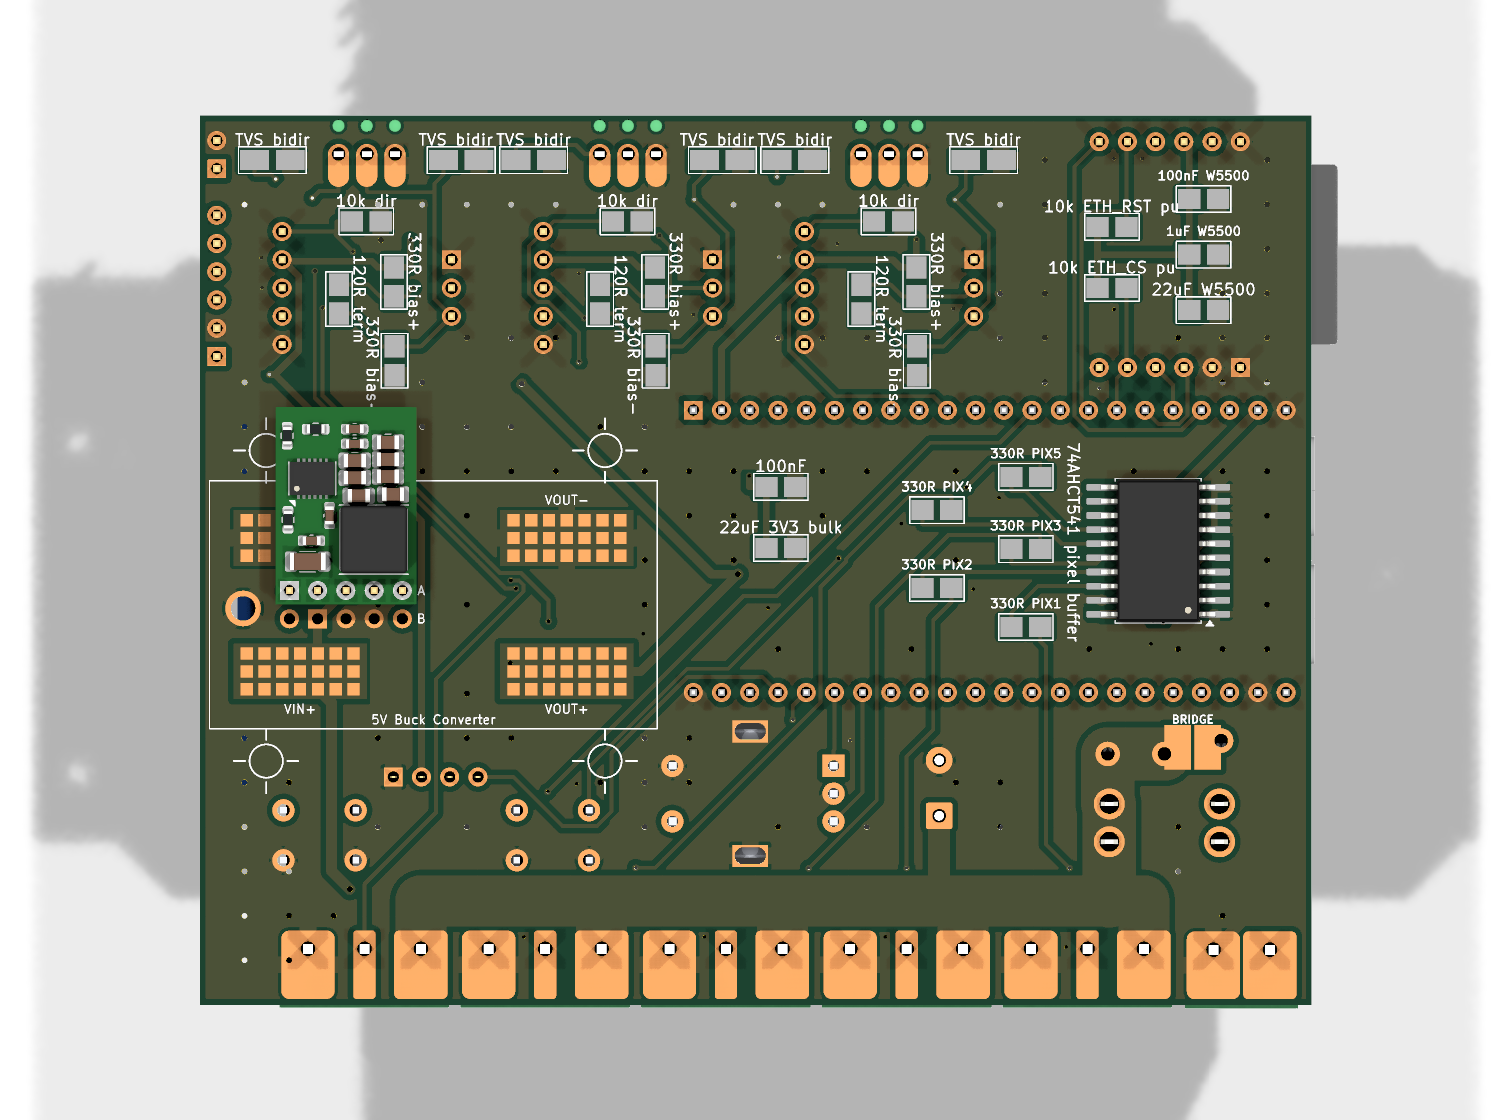
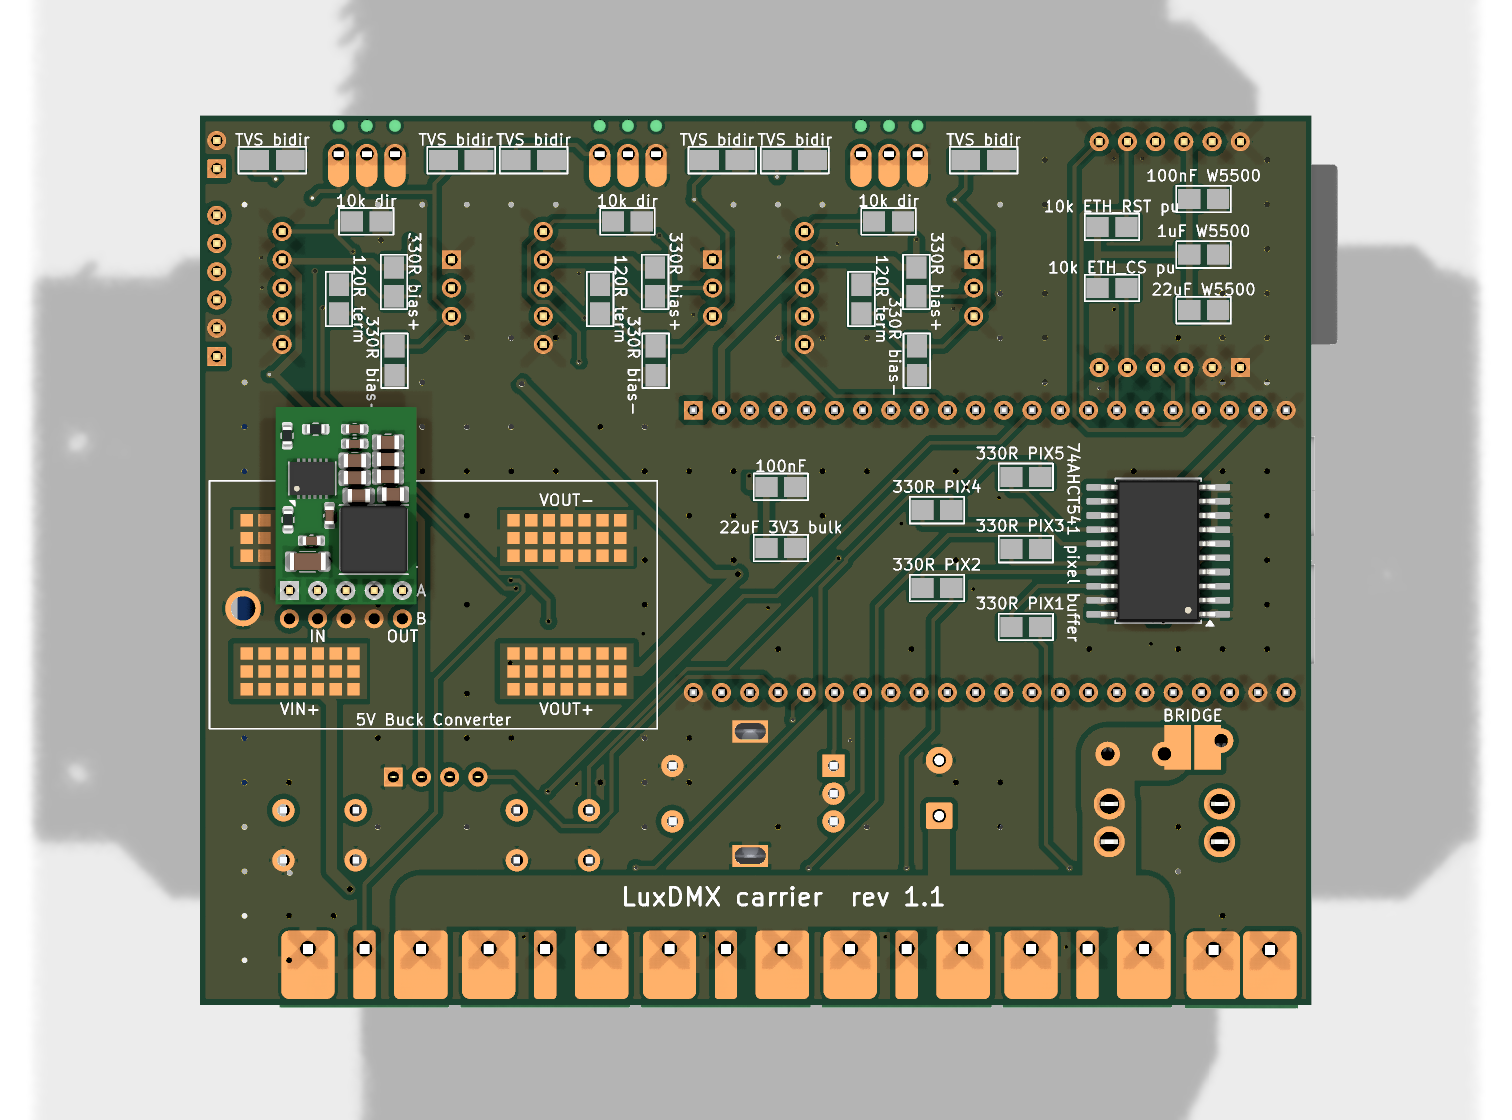
carrier: review round 5, USB end on the silk, fresh renders
The regulator hangs off the pixel rail behind the fuse, so a 12/24 V build
without pixels still needs the inlet, fuse and 1000 uF. The docs said 'only
with pixels', which gives you a dead regulator. Fixed in both READMEs and
ASSEMBLY, plus the pixel-only build now lists its 330R.

Silk says USB at the dev board's USB end (turned round, 3V3 lands on GND).
Docs warn about tin bridging the fuse bypass pads. Renders redone on the
final board.

diff --git a/hardware-carrier/tools/gen_assembly.py b/hardware-carrier/tools/gen_assembly.py
@@ -71,15 +71,16 @@ RULES = {
                                "want 0.7 x VDD = 3.5 V and the 3.3 V from the S3 will not "
                                "do it reliably."),
     "PIX{n} V+/DATA/GND": ("Pixel", "pixel port {n} is used", ""),
-    "1000uF 35V": ("Pixel", "pixel ports are used",
-                   "Buffers the current steps of the strips. 13 mm can, 5.00 mm pitch."),
-    "12-24V IN 24A": ("Pixel", "pixel ports are used",
-                      "The inlet for the pixel rail. Fit the screw terminal, or solder "
-                      "the wire flat onto the pad."),
+    "1000uF 35V": ("Pixel", "pixel ports are used **or** the regulator powers the logic",
+                   "Buffers the current steps of the strips, and is the regulator's input "
+                   "bulk against plug-in spikes. 13 mm can, 5.00 mm pitch."),
+    "12-24V IN 24A": ("Pixel", "pixel ports are used **or** the regulator powers the logic",
+                      "The inlet for the pixel rail, which also feeds the regulator. Fit the "
+                      "screw terminal, or solder the wire flat onto the pad."),
     "DC jack, alternativ zu Schraubklemme": (
         "Pixel", "pixel ports are used **and** you want a plug-in supply",
         "Rated 3.5 A. Above about 3 A use the screw terminal."),
-    "MF-R": ("Pixel", "pixel ports are used **and** no external fuse",
+    "MF-R": ("Pixel", "(pixel ports are used **or** the regulator powers the logic) **and** no external fuse",
              "Bourns MF-R, 30 V. Middle hole MF-R110 to MF-R400 (up to 4 A), right hole "
              "MF-R500 to MF-R900 (5 to 9 A); the MF-R900 clears the 1000 uF can by about 1.8 mm. "
              "MF-RHT and MF-RG are 16 V parts and unusable on 24 V."),
@@ -110,7 +111,7 @@ RULES = {
             "Middle of the three. 100nF / 1uF / 22uF in ascending order away from the pin, "
             "because the rail had a factor of 220 between its only two values."),
     "22uF W5500": ("Network", "W5500 fitted",
-                   "Local bulk under the module, 2.5 mm from its 3V3 pin. The regulator is "
+                   "Local bulk under the module, about 15 mm from its 3V3 pins. The regulator is "
                    "62 mm and 62 nH away on the dev board, so this is what holds the rail up "
                    "when the PHY steps its load; the other bulk is too far off to help."),
     "22uF 3V3 bulk": ("Other", "recommended",
@@ -130,7 +131,9 @@ its two left holes. Not a component, just a blob of solder.
 | external fuse in the supply lead | leave out | close |
 | no fuse at all | leave out | close |
 
-Exactly one of the two. Both together is a bridged fuse, which is no fuse.
+Exactly one of the two. Both together is a bridged fuse, which is no fuse. The bridge pads sit
+0.3 mm apart right at the polyfuse's left holes, so after soldering the polyfuse look with a
+loupe that no tin ran across them. A meter can't tell, the polyfuse reads as a short anyway.
 """
 
 PITFALLS = """
@@ -211,7 +214,8 @@ STAGES = """
 |---|---|---|---|---|
 | **DMX only, USB powered** | 1-3 | - | WiFi | ESP32, one RS-485 module per port, XLR headers, 10k dir, bias and termination as required |
 | **DMX + LAN** | 1-3 | - | W5500 | plus the W5500, its two 10k and its 100 nF / 1 uF / 22 uF |
-| **Pixel only** | - | 1-5 | WiFi | ESP32, buffer, terminals, 1000uF, power inlet, fuse, buck |
+| **... from 12/24 V** | | | | plus the regulator module, the power inlet, the fuse and the 1000uF: the regulator hangs off the pixel rail behind the fuse |
+| **Pixel only** | - | 1-5 | WiFi | ESP32, buffer, a 330R and a terminal per port (the 330R is the only link from buffer to terminal), 1000uF, power inlet, fuse, regulator or USB |
 | **Everything** | 3 | 5 | W5500 | all of the above, plus display and encoder |
 
 The buck is only needed where 12/24 V is present **and** neither USB nor 5V-IN. On the bench

diff --git a/hardware-carrier/tools/silk_labels.py b/hardware-carrier/tools/silk_labels.py
@@ -15,6 +15,7 @@
     encoder's GND lugs went too.
   * DMX headers: the references ("DMX 1 - GND/B/A") ran across the pads and off the edge. Hidden;
     each header gets "DMXn" and, under it, "G B A" (its pins left to right) beside pin 1.
+  * "USB" at the ESP socket's USB end, so the dev board can't go in the wrong way round.
   * odd sizes: the polyfuse's BRIDGE text 0.7 -> 1.0 mm, the OLED outline note had stroke 0.
   * silk text under 1.0 mm high goes to 1.0 mm (JLCPCB's minimum), keeping its proportions.
   * silk lines thinner than 0.15 mm (most stock footprints draw 0.12) go to 0.15, the width a
@@ -266,6 +267,14 @@ def odd_sizes(b):
             d.SetTextThickness(mm(0.18))
 
 
+def usb_end(b):
+    # The ESP socket has a pin-1 dot but nothing said which end the USB goes; turned round,
+    # the module's 3V3 lands on a GND pad. "USB" at the left end, inside the outline.
+    t = board_text(b, pcbnew.F_SilkS, "USB", 92.3, 95.2, 1.5, 0.25)
+    t.SetTextAngleDegrees(90)
+    print("  USB end mark at 92.3, 95.2")
+
+
 def title_block(b):
     # the gerber job file and every plot carry this, so the fab files say which rev they are
     tb = b.GetTitleBlock()
@@ -277,6 +286,7 @@ def title_block(b):
 def main():
     b = pcbnew.LoadBoard(BOARD)
     title_block(b)
+    usb_end(b)
     rev_texts(b)
     pixel_labels(b)
     polarity_marks(b)

diff --git a/hardware-carrier/ASSEMBLY.md b/hardware-carrier/ASSEMBLY.md
@@ -32,15 +32,15 @@ Almost nothing here is mandatory.
 
 | Part | Side | Fit it when | Note |
 |---|---|---|---|
-| `1000uF 35V` | front | pixel ports are used | Buffers the current steps of the strips. 13 mm can, 5.00 mm pitch. |
-| `12-24V IN` | front | pixel ports are used | The inlet for the pixel rail. Fit the screw terminal, or solder the wire flat onto the pad. |
+| `1000uF 35V` | front | pixel ports are used **or** the regulator powers the logic | Buffers the current steps of the strips, and is the regulator's input bulk against plug-in spikes. 13 mm can, 5.00 mm pitch. |
+| `12-24V IN` | front | pixel ports are used **or** the regulator powers the logic | The inlet for the pixel rail, which also feeds the regulator. Fit the screw terminal, or solder the wire flat onto the pad. |
 | `74AHCT541 pixel buffer` | back | **at least one** pixel port is used | Not optional: the terminals hang off its outputs. WS281x want 0.7 x VDD = 3.5 V and the 3.3 V from the S3 will not do it reliably. |
 | `Pixel1:Vcc/Data/GND` | front | pixel port 1 is used |  |
 | `Pixel2:Vcc/Data/GND` | front | pixel port 2 is used |  |
 | `Pixel3:Vcc/Data/GND` | front | pixel port 3 is used |  |
 | `Pixel4:Vcc/Data/GND` | front | pixel port 4 is used |  |
 | `Pixel5:Vcc/Data/GND` | front | pixel port 5 is used |  |
-| `Polyfuse MF-R 5.1(4A)/10.2(9A)` | front | pixel ports are used **and** no external fuse | Bourns MF-R, 30 V. Middle hole MF-R110 to MF-R400 (up to 4 A), right hole MF-R500 to MF-R900 (5 to 9 A); the MF-R900 clears the 1000 uF can by about 1.8 mm. MF-RHT and MF-RG are 16 V parts and unusable on 24 V. |
+| `Polyfuse MF-R 5.1(4A)/10.2(9A)` | front | (pixel ports are used **or** the regulator powers the logic) **and** no external fuse | Bourns MF-R, 30 V. Middle hole MF-R110 to MF-R400 (up to 4 A), right hole MF-R500 to MF-R900 (5 to 9 A); the MF-R900 clears the 1000 uF can by about 1.8 mm. MF-RHT and MF-RG are 16 V parts and unusable on 24 V. |
 
 ## Network
 
@@ -50,7 +50,7 @@ Almost nothing here is mandatory.
 | `10k ETH_CS pu` | back | W5500 fitted | Holds CS high while the GPIOs are still floating out of reset. |
 | `10k ETH_RST pu` | back | W5500 fitted | Same for RST, otherwise the W5500 resets itself during boot. |
 | `1uF W5500` | back | W5500 fitted | Middle of the three. 100nF / 1uF / 22uF in ascending order away from the pin, because the rail had a factor of 220 between its only two values. |
-| `22uF W5500` | back | W5500 fitted | Local bulk under the module, 2.5 mm from its 3V3 pin. The regulator is 62 mm and 62 nH away on the dev board, so this is what holds the rail up when the PHY steps its load; the other bulk is too far off to help. |
+| `22uF W5500` | back | W5500 fitted | Local bulk under the module, about 15 mm from its 3V3 pins. The regulator is 62 mm and 62 nH away on the dev board, so this is what holds the rail up when the PHY steps its load; the other bulk is too far off to help. |
 | `W5500 Ethernet Module` | front | you want wired Ethernet | Leave it out and everything runs over WiFi. |
 
 ## DMX port 1
@@ -134,11 +134,11 @@ Almost nothing here is mandatory.
 | 3 | XLRn 1=shld 2=D- 3=D+ | front | any DMX port is used |
 | 2 | 100nF | back | recommended |
 | 2 | Tact 6x6 H30 | front | you want the buttons |
-| 1 | 1000uF 35V | front | pixel ports are used |
+| 1 | 1000uF 35V | front | pixel ports are used **or** the regulator powers the logic |
 | 1 | 10k ETH_CS pu | back | W5500 fitted |
 | 1 | 10k ETH_RST pu | back | W5500 fitted |
 | 1 | 12-24V -> 5V buck | back | supplied from 12/24 V **and** neither 5V-IN nor USB connected |
-| 1 | 12-24V IN 24A | front | pixel ports are used |
+| 1 | 12-24V IN 24A | front | pixel ports are used **or** the regulator powers the logic |
 | 1 | 1uF | back | W5500 fitted |
 | 1 | 22uF 3V3 bulk | back | recommended |
 | 1 | 22uF W5500 | back | W5500 fitted |
@@ -148,7 +148,7 @@ Almost nothing here is mandatory.
 | 1 | EC11 | front | you want the encoder |
 | 1 | ESP32-S3 N16R8 | front | always |
 | 1 | EXP 3V3/GND/47/48/43/44 | front | optional |
-| 1 | MF-R 30V | front | pixel ports are used **and** no external fuse |
+| 1 | MF-R 30V | front | (pixel ports are used **or** the regulator powers the logic) **and** no external fuse |
 | 1 | OLED SDA/SCL/VCC/GND | front | you want the display |
 | 1 | USR-ES1 W5500 | front | you want wired Ethernet |
 
@@ -163,7 +163,9 @@ its two left holes. Not a component, just a blob of solder.
 | external fuse in the supply lead | leave out | close |
 | no fuse at all | leave out | close |
 
-Exactly one of the two. Both together is a bridged fuse, which is no fuse.
+Exactly one of the two. Both together is a bridged fuse, which is no fuse. The bridge pads sit
+0.3 mm apart right at the polyfuse's left holes, so after soldering the polyfuse look with a
+loupe that no tin ran across them. A meter can't tell, the polyfuse reads as a short anyway.
 
 ## The 5 V regulator
 
@@ -238,7 +240,8 @@ matter.
 |---|---|---|---|---|
 | **DMX only, USB powered** | 1-3 | - | WiFi | ESP32, one RS-485 module per port, XLR headers, 10k dir, bias and termination as required |
 | **DMX + LAN** | 1-3 | - | W5500 | plus the W5500, its two 10k and its 100 nF / 1 uF / 22 uF |
-| **Pixel only** | - | 1-5 | WiFi | ESP32, buffer, terminals, 1000uF, power inlet, fuse, buck |
+| **... from 12/24 V** | | | | plus the regulator module, the power inlet, the fuse and the 1000uF: the regulator hangs off the pixel rail behind the fuse |
+| **Pixel only** | - | 1-5 | WiFi | ESP32, buffer, a 330R and a terminal per port (the 330R is the only link from buffer to terminal), 1000uF, power inlet, fuse, regulator or USB |
 | **Everything** | 3 | 5 | W5500 | all of the above, plus display and encoder |
 
 The buck is only needed where 12/24 V is present **and** neither USB nor 5V-IN. On the bench

diff --git a/hardware-carrier/README.md b/hardware-carrier/README.md
@@ -137,7 +137,9 @@ parts only. MF-RHT, MF-RG and anything else rated 16 V is out of
 rating at 24 V the moment it trips. Equivalents to the
 MF-R500: ECE RB500-30, Littelfuse RUEF500. Full list in [`production/BOM.md`](production/BOM.md).
 
-Never polyfuse and bridge together.
+Never polyfuse and bridge together. Careful when you solder the polyfuse: the two bridge pads
+sit 0.3 mm apart, unmasked, right at its left holes on the back. Use little tin, then look with a
+loupe that the gap is still open. A meter can't tell you, a polyfuse measures as a short anyway.
 
 ### Regulator
 
@@ -186,7 +188,9 @@ How they sit:
 - **Pololu modules go label side to the board**, parts facing out, like on a breadboard. Turned
   over, a D24V10F5 just stays off (its GND and VOUT end up in the unconnected SHDN/PG holes); a
   D36V28F5 ends up with its VIN on GND and its GND pins on `V_PIX`, a dead short across the pixel
-  supply (the fuse trips), and its screw holes won't line up either.
+  supply (the fuse trips), and its screw holes won't line up either. The body goes towards the
+  minus lands and the top of the board (over row A's side, away from row B), not down over
+  row B: turned that way a D24V10F5 still runs but lies parts-down on the bare `V_PIX` land.
 
 Pin positions are from the vendors' drawings (Pololu dimension PDFs and drill-guide DXFs, RECOM
 R-78E-1.0 and Mornsun K78xx-1000R3 datasheets), written into `modules.json` and generated into the
@@ -222,8 +226,8 @@ terminal row. Each output gets the full 4.6 mm width and its own GND return.
 - All five ports in use: about 2 A each. A 5 m WS2815 run is about 5 A at full white.
 - More than that: inject power at the strip.
 - The polyfuse bridge pads limit a fuse-less build to 8.8 A. Bridge the through-holes with a wire for more.
-- The bulk cap hangs off a 2.0 mm spur (5.3 A), the regulator off a 1.0 mm one (well over its
-  ~0.3 A input at 24 V). Neither is a load path.
+- The bulk cap hangs off a 2.0 mm spur (5.3 A), the regulator off a 1.0 mm one, 0.8 mm for the
+  last bit between its rows (well over its ~0.3 A input at 24 V). Neither is a load path.
 
 ### Decoupling
 
@@ -365,9 +369,9 @@ BOM, the lands take 0402 to 1206.
 | `74AHCT541 pixel buffer` | SN74AHCT541DWR, SOIC-20 300 mil | C2682058 | at least one pixel port used |
 | `330R PIX1..5` | 330 Ω, 1206W4J0331T5E | C25374 | that port used |
 | `Pixel1..5` | KF128-5.08-3P screw terminal | C474953 | that port used |
-| `12-24V IN` | KF128-5.08-2P screw terminal, 24 A | C474952 | any pixel port used |
-| `1000uF 35V` | Panasonic EEU-FR1V102, D12.5 x 20 mm (any can up to 13 mm, 5 mm pitch) | C128518 | any pixel port used |
-| Fuse | MF-R500 polyfuse **or** Keystone 3568 blade holder **or** solder bridge | C208489 (MF-R500) | any pixel port used, see [Fuse](#fuse) |
+| `12-24V IN` | KF128-5.08-2P screw terminal, 24 A | C474952 | any pixel port used, or the regulator powers the logic |
+| `1000uF 35V` | Panasonic EEU-FR1V102, D12.5 x 20 mm (any can up to 13 mm, 5 mm pitch) | C128518 | any pixel port used, or the regulator powers the logic |
+| Fuse | MF-R500 polyfuse **or** Keystone 3568 blade holder **or** solder bridge | C208489 (MF-R500) | any pixel port used, or the regulator powers the logic, see [Fuse](#fuse) |
 
 ### Supply
 
@@ -409,6 +413,7 @@ side and fit condition: [`ASSEMBLY.md`](ASSEMBLY.md).
 |---|---|---|---|---|
 | DMX only, USB powered | 1-3 | - | WiFi, external antenna | ESP, RS-485 module + header + 10k per port, bias / termination / TVS as needed |
 | DMX + LAN | 1-3 | - | W5500 | above + W5500, its two 10k and 100 nF / 1 µF / 22 µF |
+| ... from 12/24 V | | | | above + regulator module, `12-24V IN`, the fuse and the 1000 µF. The regulator sits on the pixel rail behind the fuse, so it needs all three even with no pixels |
 | Pixels only | - | 1-5 | WiFi, external antenna | ESP, buffer, 330 Ω + terminal per port, 1000 µF, inlet, fuse, buck or USB |
 | Everything | 3 | 5 | W5500 | all of it, plus display, encoder, buttons |
 

diff --git a/README.md b/README.md
@@ -241,14 +241,14 @@ headers.
 | 74AHCT541 buffer (SO-20 wide) | at least one pixel port is used. **HCT**, not HC: the HC parts don't switch reliably on 3.3 V. And not the `PW` (TSSOP) version LCSC stocks most of, it won't land |
 | 330 Ω series resistor, per port | you use that pixel port. Damps the ringing on the strip wire |
 | 3-pole screw terminal, per port | you use that pixel port |
-| 1000 µF 35 V, `12-24V IN` terminal, fuse | any pixel port is used, see power below |
+| 1000 µF 35 V, `12-24V IN` terminal, fuse | any pixel port is used, **or** the 5 V regulator runs the logic (it sits behind the fuse), see power below |
 | **Network and UI** | |
 | W5500 module + 2 × 10k pull-ups + 100 nF / 1 µF / 22 µF | you want wired Ethernet |
 | 1.3" OLED | you want the display |
 | EC11 rotary encoder (the part inside a KY-040, no pull-ups needed) | you want the on-unit menu |
 | 2 × 6x6 mm tact switch | you want the buttons (IO3 and IO46). Plunger length is up to you, 30 mm reaches the same front panel as the encoder shaft |
 | **Supply and misc** | |
-| 5 V regulator module: Pololu D24V10F5 (MP1584EN, D36V28F5 or a 78xx-style SIP fit too) | you power the logic from the 12/24 V pixel supply |
+| 5 V regulator module: Pololu D24V10F5 (MP1584EN, D36V28F5 or a 78xx-style SIP fit too) | you power the logic from the 12/24 V pixel supply. Needs the inlet, fuse and 1000 µF too, even without pixels |
 | `5V IN` header | 5 V comes from outside instead of USB |
 | 100 nF + 22 µF on 3.3 V | recommended |
 | `EXP` header | spare pins: 3.3 V, GND, the UART0 pins and IO47/48 (pixel 4 and 5, unbuffered) |
